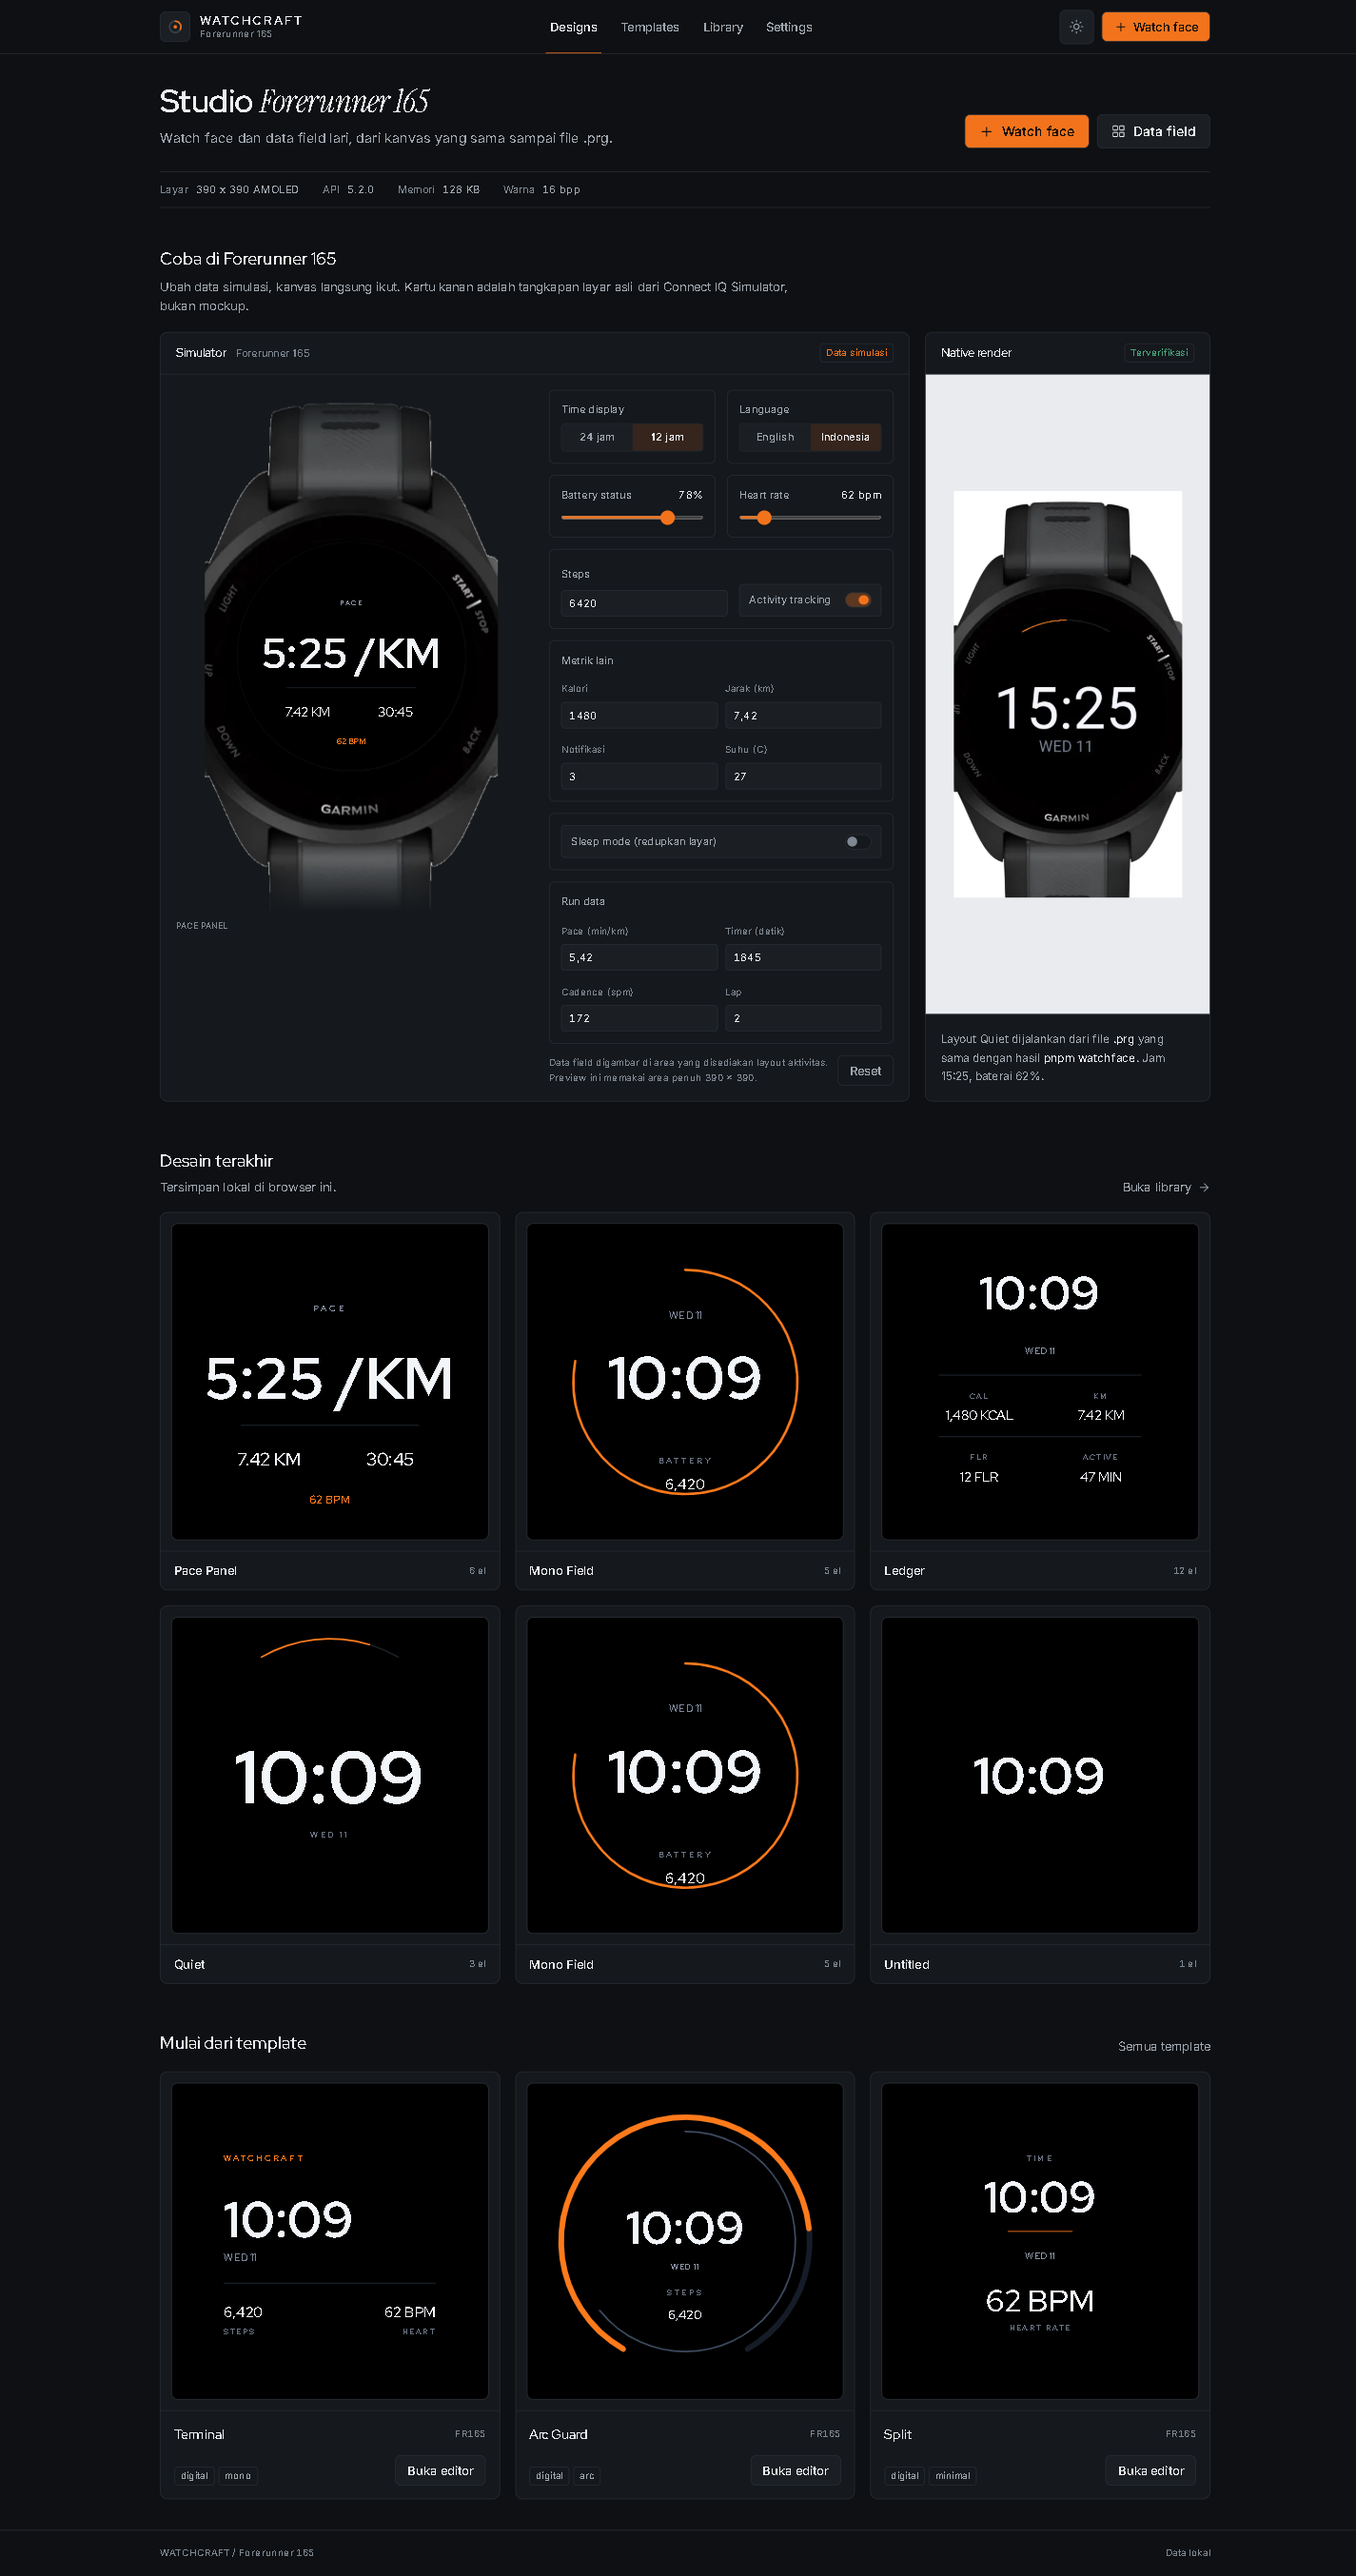
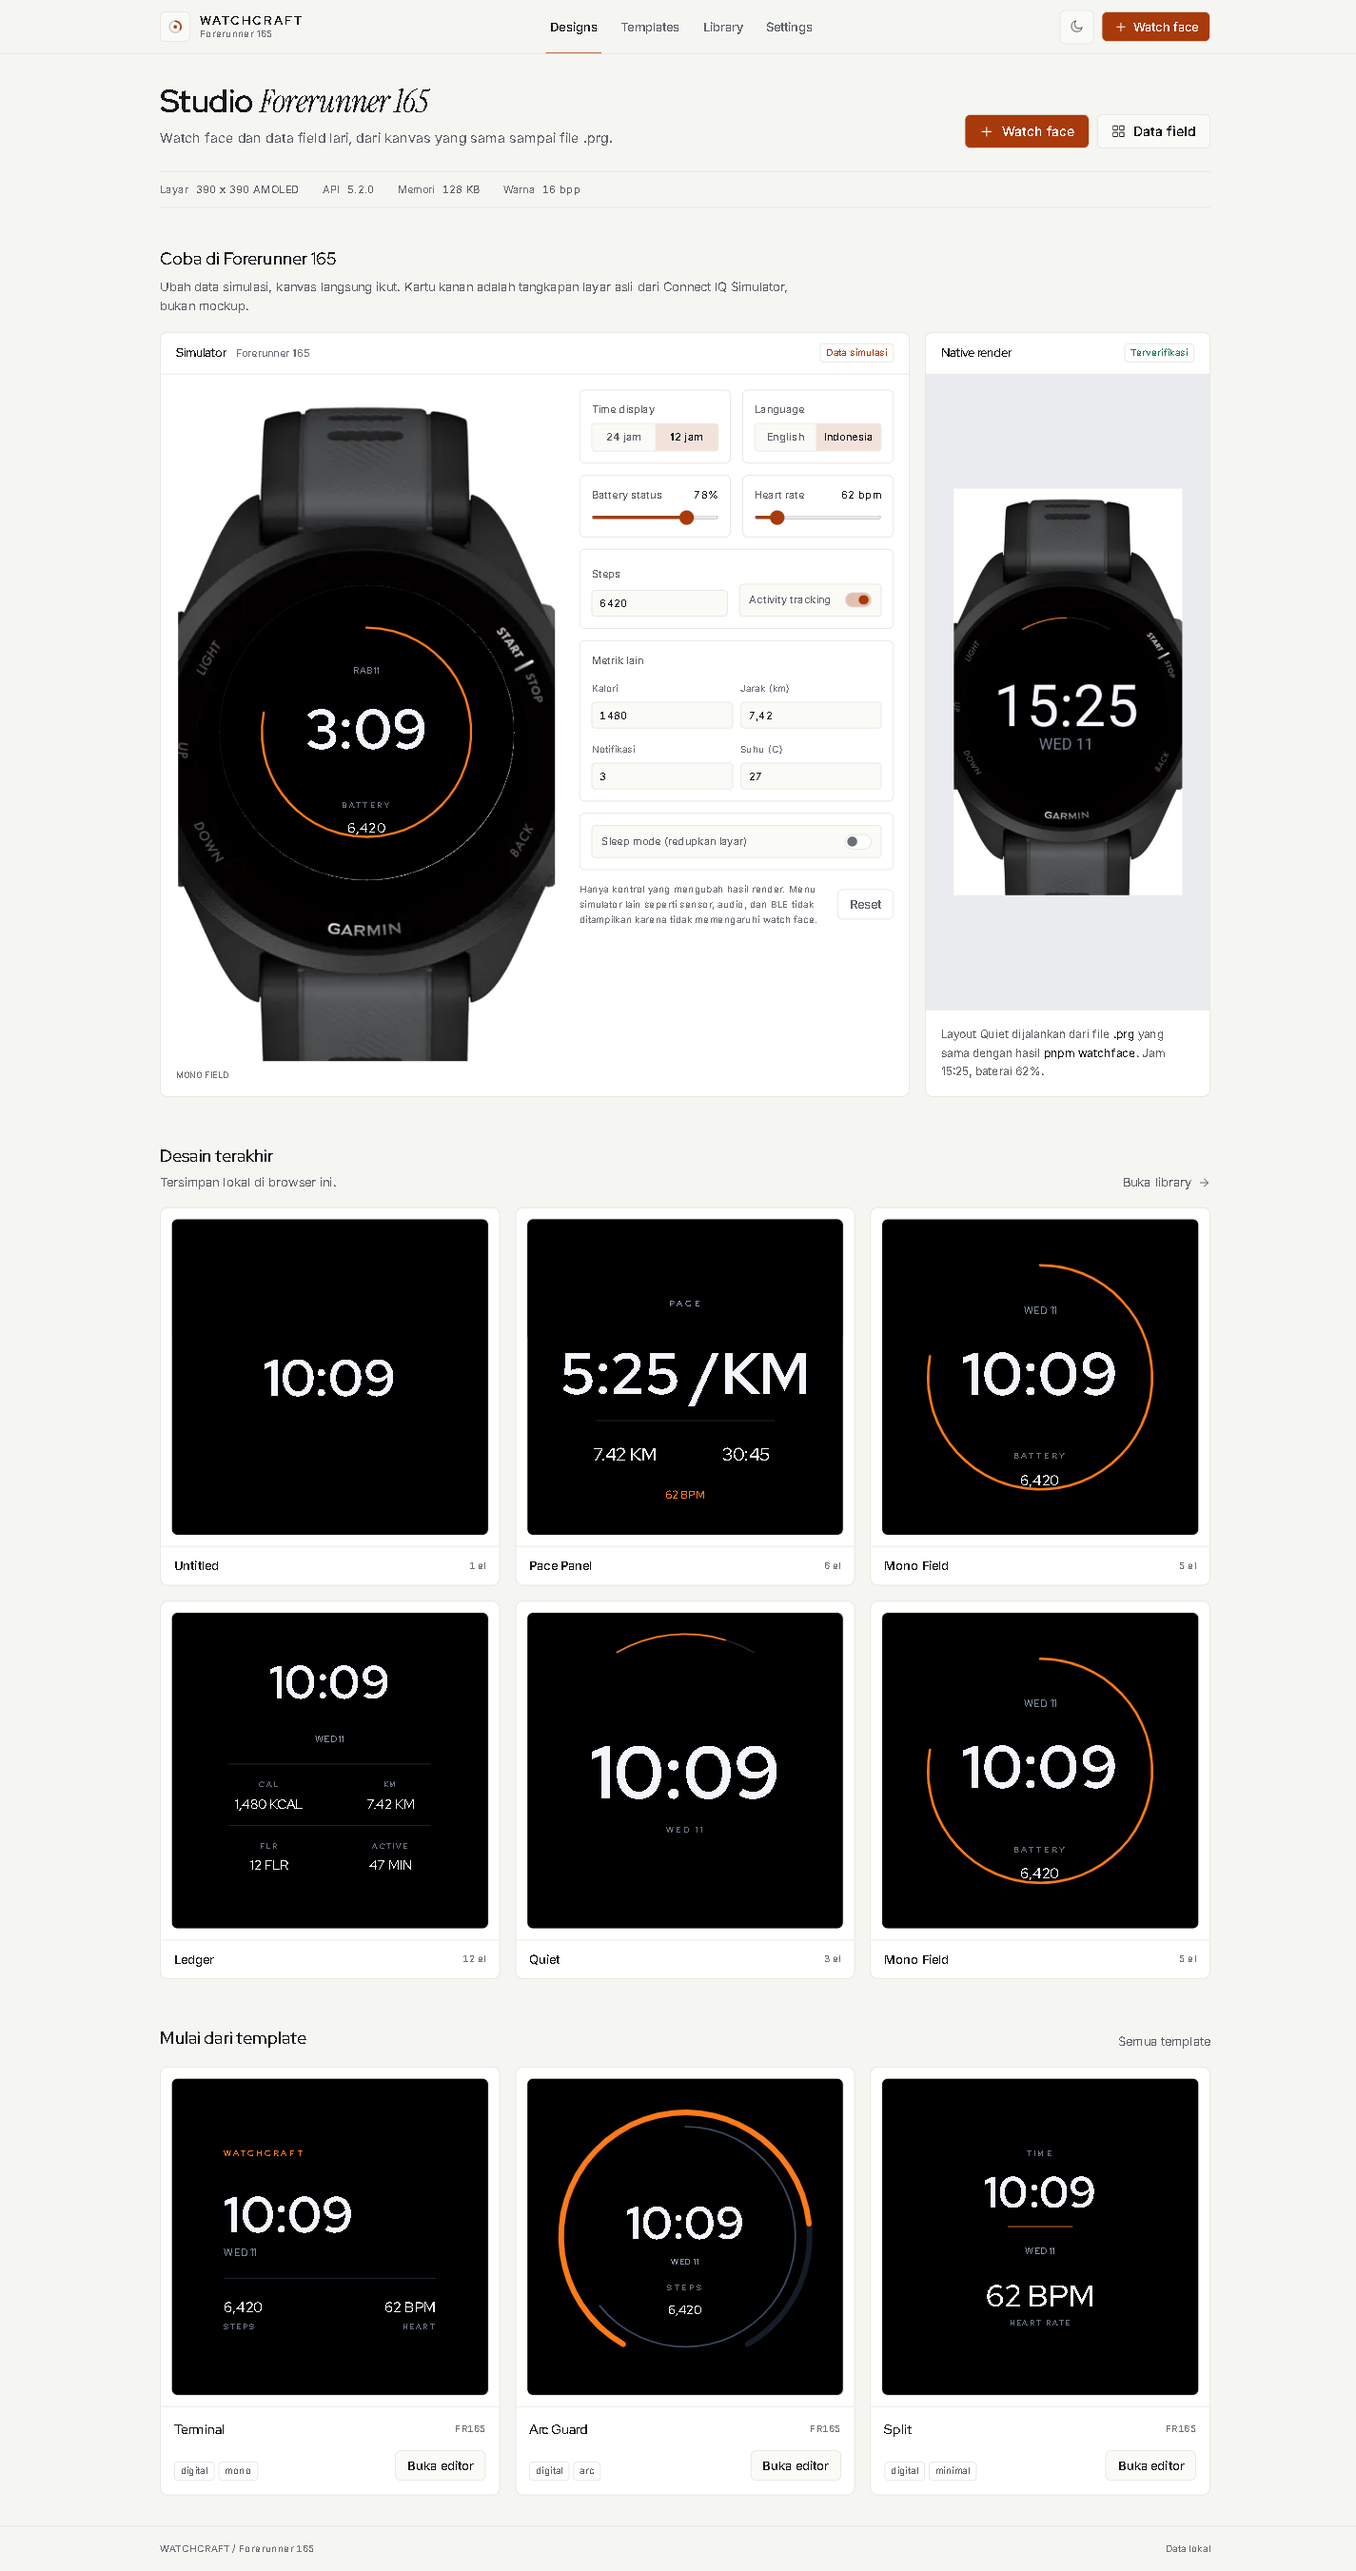
style: default to light theme and show full device preview

diff --git a/src/components/DeviceFrame.tsx b/src/components/DeviceFrame.tsx
@@ -13,25 +13,15 @@ export function DeviceFrame({ children }: { children: React.ReactNode }) {
       style={{ width: FRAME.width, height: FRAME.height }}
     >
       {/* Body diambil dari tangkapan layar Connect IQ Simulator, layar sudah dilubangi. */}
-      <div
-        className="pointer-events-none absolute inset-0"
-        style={{
-          maskImage:
-            "linear-gradient(to bottom, transparent 0%, #000 9%, #000 91%, transparent 100%)",
-          WebkitMaskImage:
-            "linear-gradient(to bottom, transparent 0%, #000 9%, #000 91%, transparent 100%)",
-        }}
-      >
-        <Image
-          src="/frames/fr165-body.png"
-          alt=""
-          width={FRAME.width}
-          height={FRAME.height}
-          draggable={false}
-          priority
-          className="h-full w-full"
-        />
-      </div>
+      <Image
+        src="/frames/fr165-body.png"
+        alt=""
+        width={FRAME.width}
+        height={FRAME.height}
+        draggable={false}
+        priority
+        className="pointer-events-none absolute inset-0 h-full w-full"
+      />
 
       <div
         className="absolute overflow-hidden rounded-full bg-black"

diff --git a/src/app/globals.css b/src/app/globals.css
@@ -1,25 +1,6 @@
 @import "tailwindcss";
 
 :root {
-  --page: #0e1013;
-  --panel: #15181c;
-  --raised: #1b1f24;
-  --line: #272c33;
-  --line-strong: #3a424b;
-  --ink: #eceef2;
-  --muted: #a0a7b0;
-  --faint: #7e8792;
-  --accent: #f2731c;
-  --accent-hover: #ff8740;
-  --accent-ink: #14100c;
-  --dot: #232830;
-  --ok: #46a37a;
-  --warn: #d6a032;
-  --danger: #e36b74;
-  --focus: #f2731c;
-}
-
-[data-theme="light"] {
   --page: #f5f5f2;
   --panel: #ffffff;
   --raised: #fafaf7;
@@ -36,6 +17,25 @@
   --warn: #7d5a12;
   --danger: #b02a34;
   --focus: #a83a0c;
+}
+
+[data-theme="dark"] {
+  --page: #0e1013;
+  --panel: #15181c;
+  --raised: #1b1f24;
+  --line: #272c33;
+  --line-strong: #3a424b;
+  --ink: #eceef2;
+  --muted: #a0a7b0;
+  --faint: #7e8792;
+  --accent: #f2731c;
+  --accent-hover: #ff8740;
+  --accent-ink: #14100c;
+  --dot: #232830;
+  --ok: #46a37a;
+  --warn: #d6a032;
+  --danger: #e36b74;
+  --focus: #f2731c;
 }
 
 @theme inline {

diff --git a/src/app/layout.tsx b/src/app/layout.tsx
@@ -30,7 +30,7 @@ export const metadata: Metadata = {
     "Studio desain watch face yang dirender native di Garmin Forerunner 165.",
 };
 
-const themeScript = `(function(){try{var t=localStorage.getItem("watchcraft-theme");document.documentElement.setAttribute("data-theme",t==="light"?"light":"dark")}catch(e){document.documentElement.setAttribute("data-theme","dark")}})();`;
+const themeScript = `(function(){try{var t=localStorage.getItem("watchcraft-theme");document.documentElement.setAttribute("data-theme",t==="dark"?"dark":"light")}catch(e){document.documentElement.setAttribute("data-theme","light")}})();`;
 
 export default function RootLayout({
   children,
@@ -38,7 +38,7 @@ export default function RootLayout({
   return (
     <html
       lang="id"
-      data-theme="dark"
+      data-theme="light"
       className={`${sans.variable} ${display.variable} ${serif.variable}`}
       suppressHydrationWarning
     >

diff --git a/src/components/SimulatorPanel.tsx b/src/components/SimulatorPanel.tsx
@@ -179,7 +179,7 @@ export function SimulatorPanel({ design }: { design: Design }) {
   const data = buildSimulationData(settings);
   const patch = (next: Partial<SimulationSettings>) =>
     setSettings((current) => ({ ...current, ...next }));
-  const scale = 0.7;
+  const scale = 0.9;
 
   return (
     <Card className="overflow-hidden">
@@ -189,8 +189,8 @@ export function SimulatorPanel({ design }: { design: Design }) {
         action={<Badge tone="accent">Data simulasi</Badge>}
       />
 
-      <div className="grid gap-6 p-4 lg:grid-cols-[368px_1fr]">
-        <div className="mx-auto w-full max-w-[368px]">
+      <div className="grid gap-6 p-4 lg:grid-cols-[400px_1fr]">
+        <div className="mx-auto w-full max-w-[400px]">
           <div
             style={{ width: FRAME.width * scale, height: FRAME.height * scale }}
             className="mx-auto"

diff --git a/src/components/ThemeToggle.tsx b/src/components/ThemeToggle.tsx
@@ -9,7 +9,7 @@ const KEY = "watchcraft-theme";
 type Theme = "dark" | "light";
 
 export function ThemeToggle({ className }: { className?: string }) {
-  const [theme, setTheme] = useState<Theme>("dark");
+  const [theme, setTheme] = useState<Theme>("light");
 
   useEffect(() => {
     const current = document.documentElement.getAttribute("data-theme");

diff --git a/src/app/settings/page.tsx b/src/app/settings/page.tsx
@@ -27,7 +27,7 @@ const SPECS: Array<[string, string]> = [
 ];
 
 export default function SettingsPage() {
-  const [theme, setTheme] = useState<"dark" | "light">("dark");
+  const [theme, setTheme] = useState<"dark" | "light">("light");
   const [note, setNote] = useState<string | null>(null);
 
   useEffect(() => {

diff --git a/docs/DESIGN-SYSTEM.md b/docs/DESIGN-SYSTEM.md
@@ -4,11 +4,11 @@ Sistem visual WATCHCRAFT. Sumber implementasi: `src/app/globals.css`.
 
 ## Arah
 
-Studio profesional, bukan landing page. Tenang, presisi, lapang. Chrome gelap mengelilingi kanvas jam yang terang. Setiap keputusan visual harus bisa dijelaskan dalam satu baris.
+Studio profesional, bukan landing page. Tenang, presisi, lapang. Chrome terang mengelilingi kanvas jam yang gelap. Setiap keputusan visual harus bisa dijelaskan dalam satu baris.
 
 ## Warna
 
-Token didefinisikan sebagai CSS variable, lalu dipetakan ke Tailwind lewat `@theme inline`. Default gelap, terang lewat `[data-theme="light"]`.
+Token didefinisikan sebagai CSS variable, lalu dipetakan ke Tailwind lewat `@theme inline`. Default terang, gelap lewat `[data-theme="dark"]`.
 
 | Token | Gelap | Terang | Pemakaian |
 | --- | --- | --- | --- |
